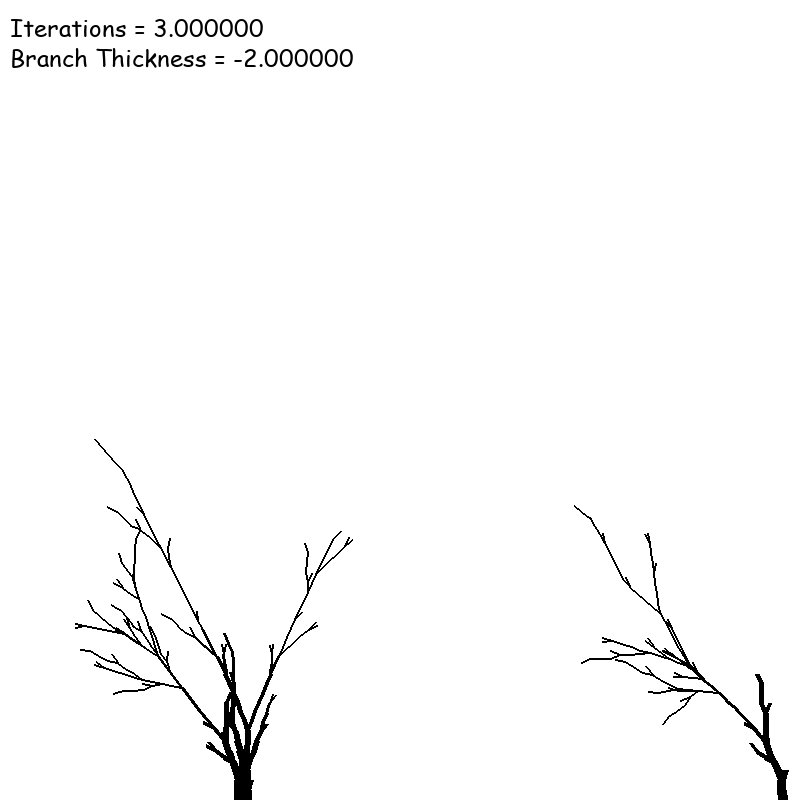
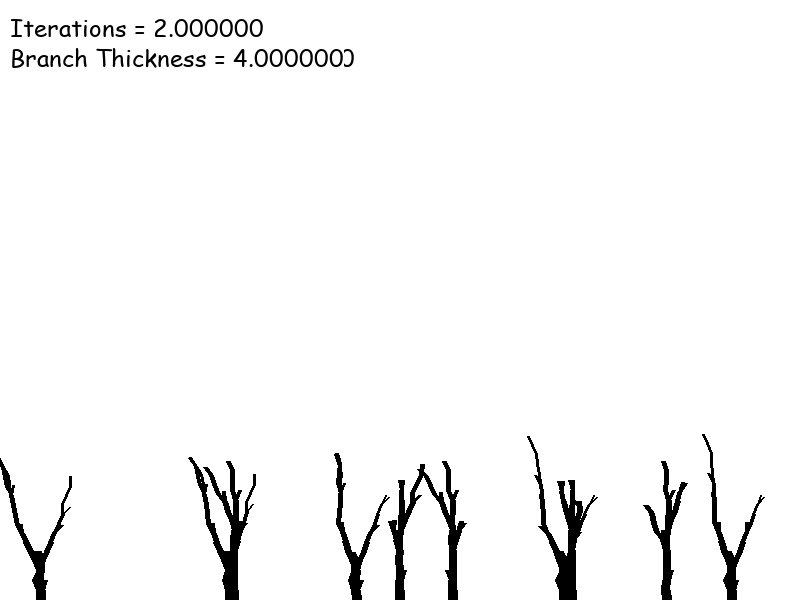
changed arguments

diff --git a/copy_l.py b/copy_l.py
@@ -22,7 +22,7 @@ clock = pygame.time.Clock()
 
 """
 Class: MyText
-The MyText class is used to store the text information for the simulation.
+The MyText class is used to store the text information for the simulation. It is a function from Lab 4.
 """
 class MyText():
     def __init__(self, color, background=WHITE, antialias=True, fontname="comicsansms", fontsize=24):
@@ -53,13 +53,7 @@ class Branch:
 
     def drawbranch(self, screen, seg_thickness):
         # draw branch based on updated state variables
-        pygame.draw.line(screen,BLACK,(self.startx,self.starty),(self.endx,self.endy),int(seg_thickness))
-
-    def updatebranch(self, newstartx, newstarty, newendx, newendy):
-        self.startx = newstartx
-        self.starty = newstarty
-        self.endx = newendx
-        self.endy = newendy
+        pygame.draw.line(screen, BLACK, (self.startx, self.starty), (self.endx, self.endy), int(seg_thickness))
 
 # function: derivation
     # parameters: string axiom, int steps
@@ -200,7 +194,7 @@ def draw_landscape(current_run):
         window_height = 720
     else:
         window_length = 800
-        window_height = 800
+        window_height = 600
 
     # set up pygame screen and caption window
     screen = pygame.display.set_mode((window_length, window_height))
@@ -222,9 +216,9 @@ def draw_landscape(current_run):
     key,value = rule.split("->")
     X_RULES.append(value)
 
-    rule = "X->F-[[-X]+X]+F[+FX]-X"
-    key, value = rule.split("->")
-    X_RULES.append(value)
+    # rule = "X->F-[[-X]+X]+F[+FX]-X"
+    # key, value = rule.split("->")
+    # X_RULES.append(value)
 
     rule = "X->F[-FX+FXF-F][+FXX]"
     key, value = rule.split("->")
@@ -236,28 +230,20 @@ def draw_landscape(current_run):
 
     SYSRULES[key] = value
 
-    # define l-system parameters for sim
-    axiom = "X"
-    iterations = 3
-    da = 20
-
-    # set available area for tree to be drawn with floor operation for int
-    posix = window_length // 2
-    posiy = window_height
-
-    # init update variables 
     clock = pygame.time.Clock()
     clock_ticks = pygame.time.get_ticks()
-    seg_thickness = int(sys.argv[1])
+
+    # define l-system parameters for sim
+    axiom = "X"
+    iterations = int(sys.argv[1])
+    da = 20
+    seg_thickness = iterations * 5
     step = 0
 
-    # make tree based on parameters
-    screen.fill(WHITE)
-
-    # add background again?
-    if (int(sys.argv[3]) == 1):
-        screen.blit(backgroundimg,(0,0))
-
+    # set available area for tree to be drawn
+    posix = window_length / 2.
+    posiy = window_height
+    
     # store location of trees drawn
     state_location = []
 
@@ -267,9 +253,9 @@ def draw_landscape(current_run):
         # find random position for tree to grow based on window_length
         posix = random.randint(20, window_length)
 
-        while (posix in state_location):
-            posix = random.randint(20, window_length)
-            state_location.append(posix)
+        # while (posix in state_location):
+        #     posix = random.randint(20, window_length)
+        #     state_location.append(posix)
 
         # get list of elements for creating tree
         fullstring = maketree(axiom, iterations)
@@ -291,7 +277,6 @@ def draw_landscape(current_run):
             if event.key == pygame.K_ESCAPE or event.unicode == 'q':
                 break
         pygame.display.flip()
-        #print(step)
         step += 1
 
     # save final img of tree
